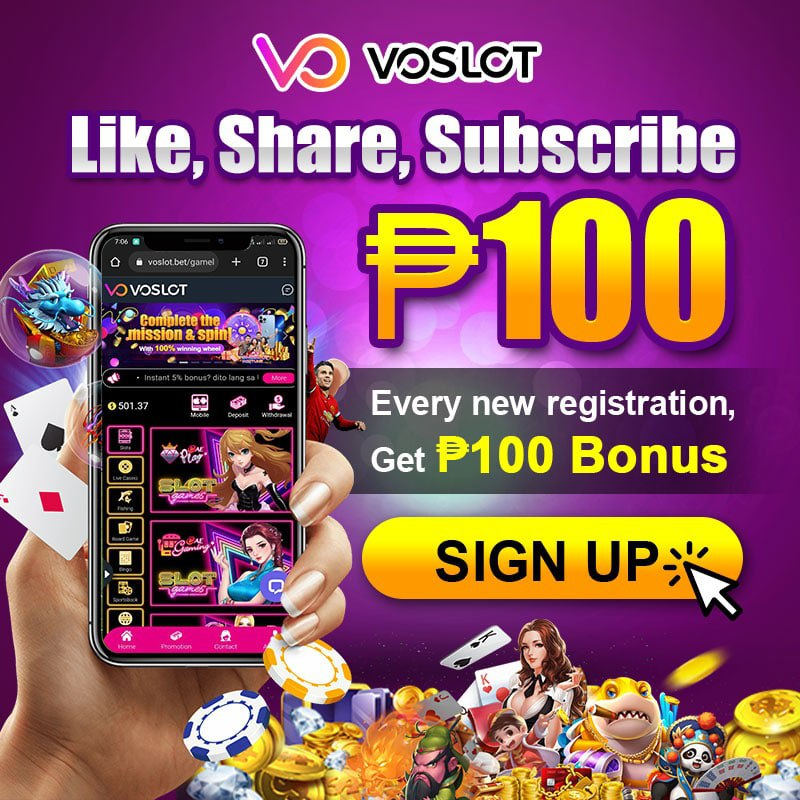
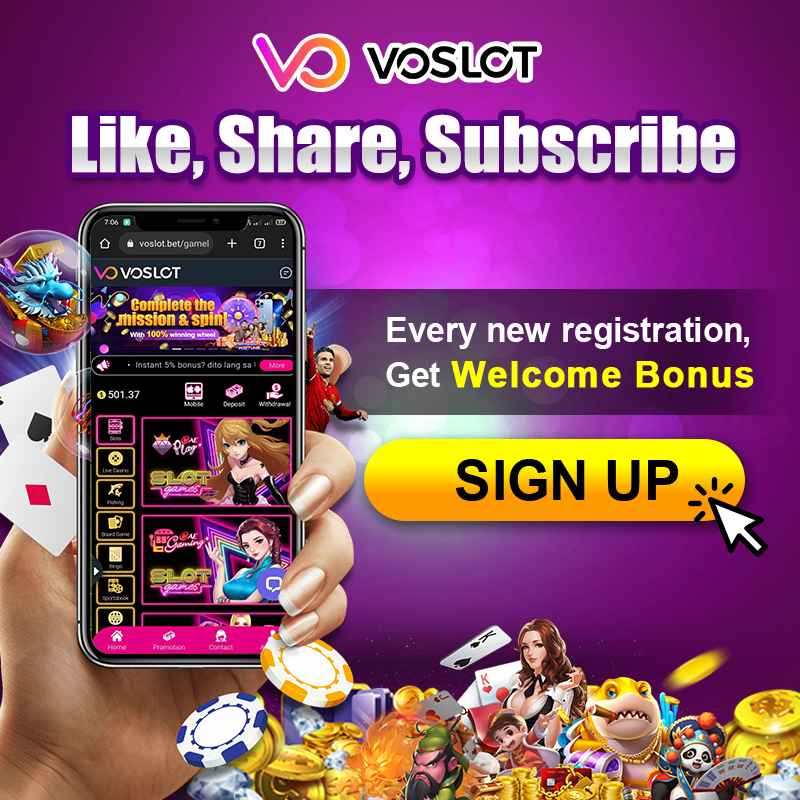
fix ad

diff --git a/index.htm b/index.htm
@@ -206,7 +206,7 @@
     </div>
     <div class="panel" id="panel3">
       <div id="info">
-        <h1>₱100</h1>
+        <!-- <h1>₱100</h1> -->
         <h2>Like
           <svg xmlns="http://www.w3.org/2000/svg" class="icon icon-tabler icon-tabler-zoom-check" width="28" height="28" viewBox="0 0 24 24" stroke-width="1" stroke="#7ffb58" fill="none" stroke-linecap="round" stroke-linejoin="round">
             <path stroke="none" d="M0 0h24v24H0z" fill="none"/>
@@ -231,7 +231,7 @@
         </h2>
         <ul>
           <li>Every new registration</li>
-          <li>Get ₱100 Bonus</li>
+          <li>Get Welcome Bonus</li>
         </ul>
         <div id="orderNow"><a href="https://www.voslot.bet/?uagt=google2&path=promotions">𝗦𝗜𝗚𝗡 𝗨𝗣</a></div>
       </div>
